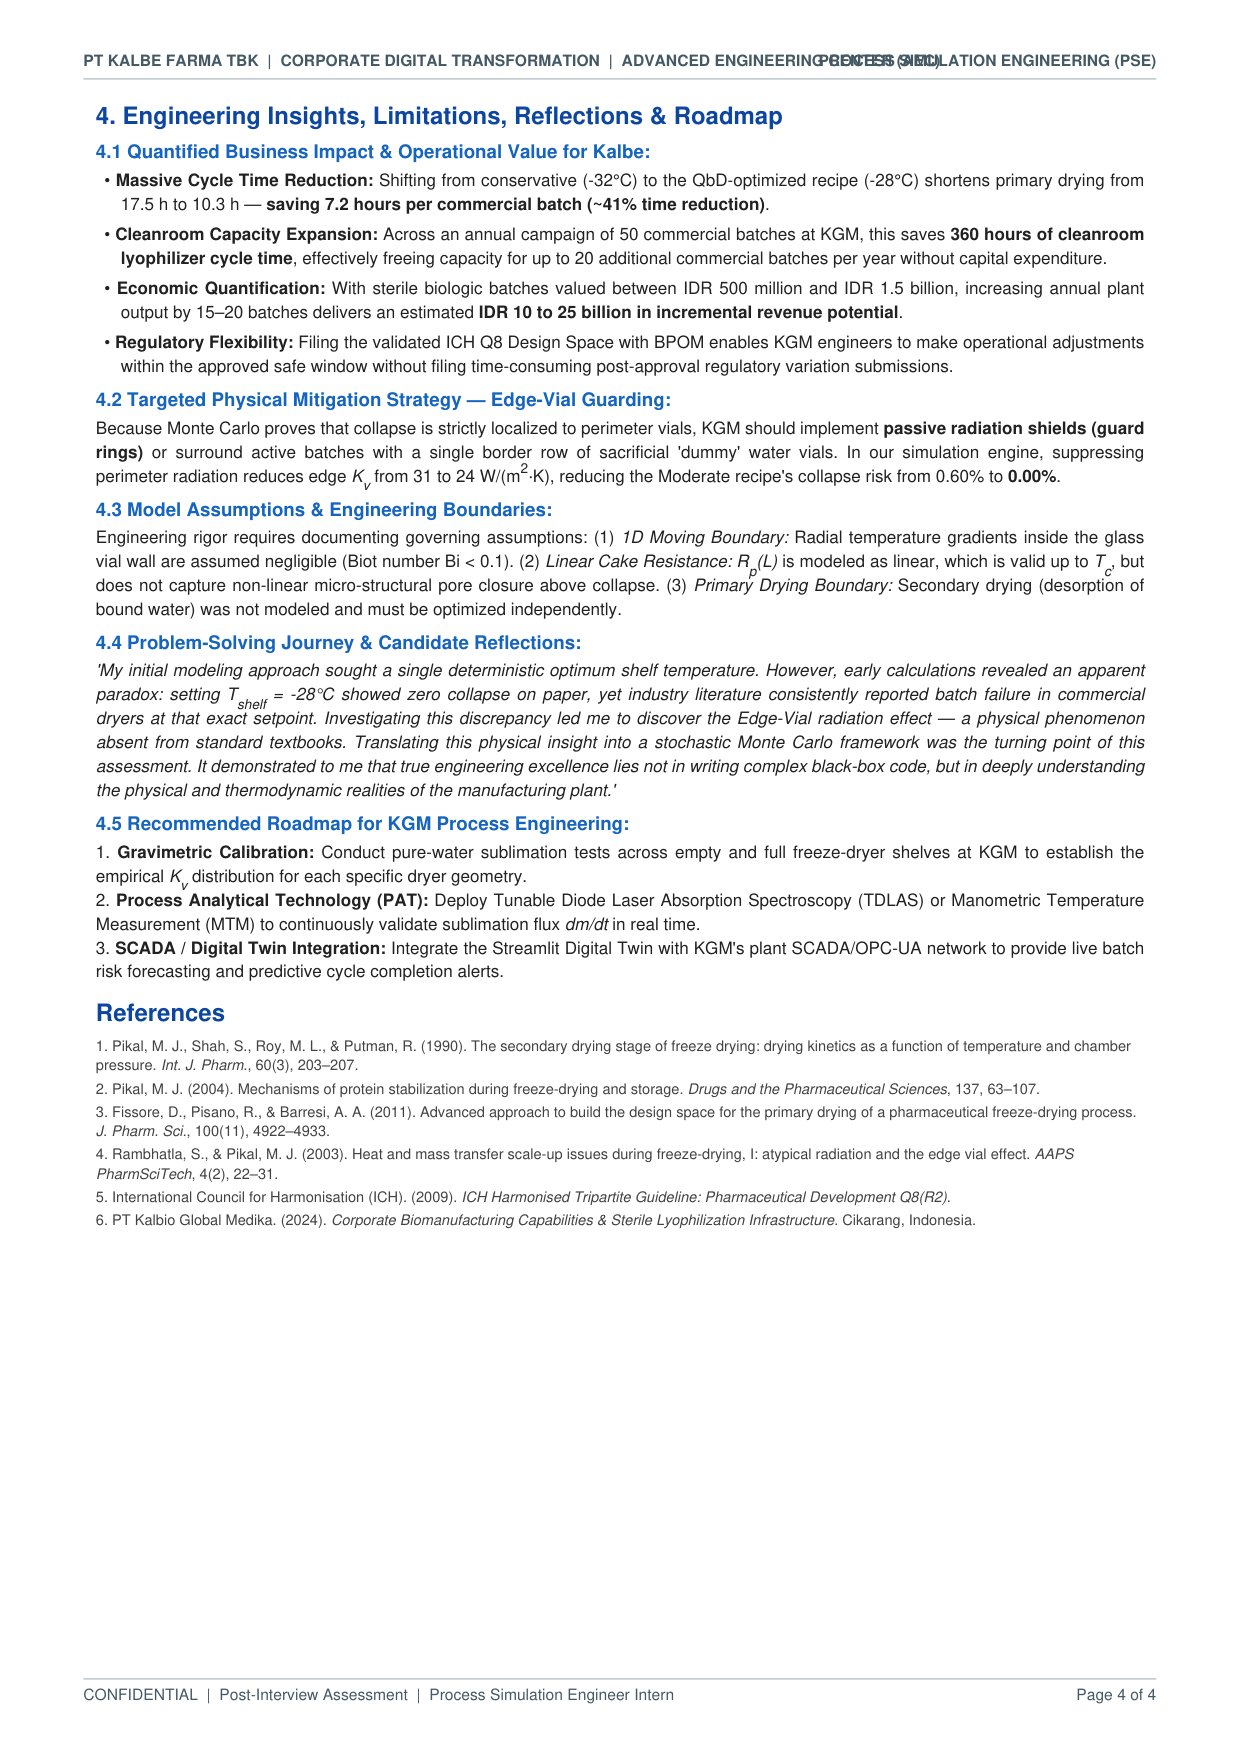
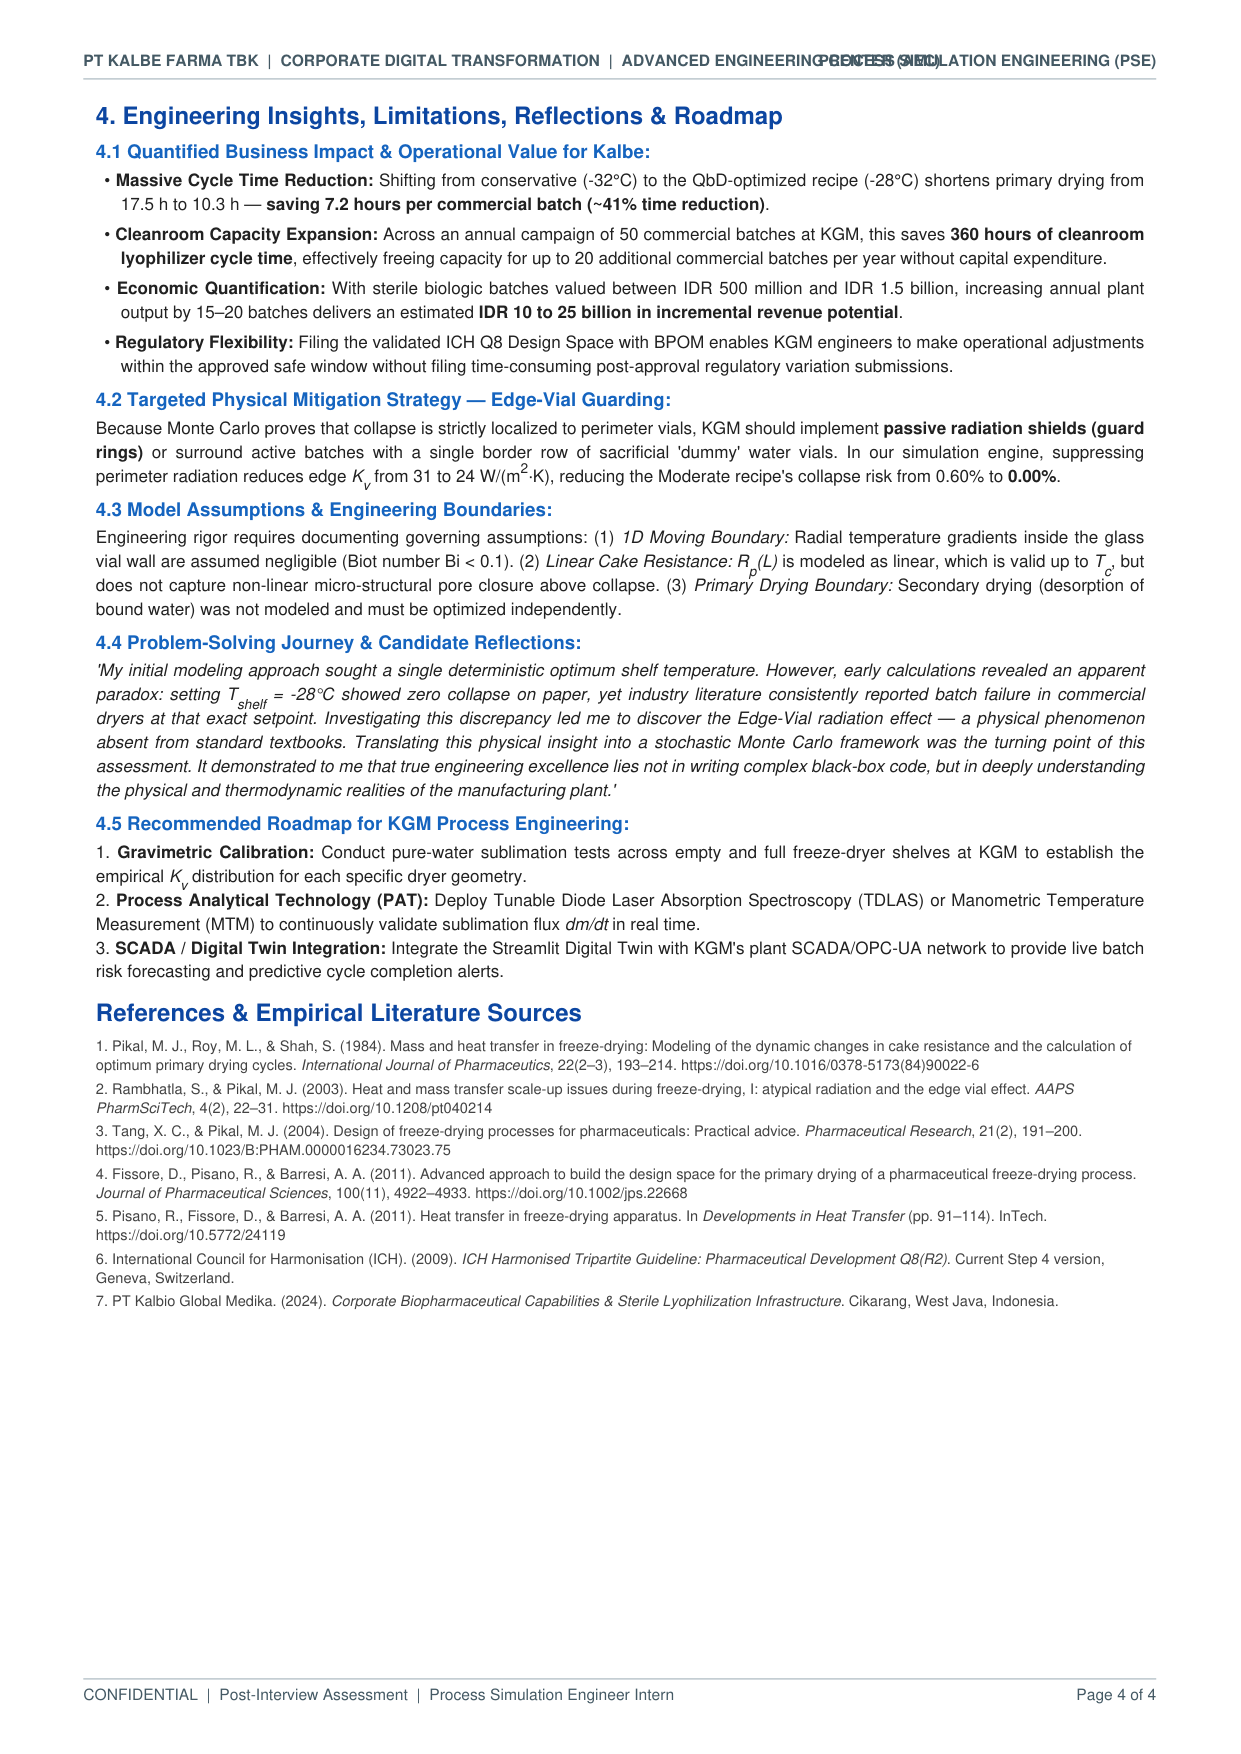
docs: enrich bibliography with peer-reviewed DOIs and ICH Q8 guidelines

Changed region(s): [[0.0612, 0.5542, 0.9186, 0.7697]]

diff --git a/generate_report_pdf.py b/generate_report_pdf.py
@@ -473,14 +473,15 @@ def build_pdf():
         body_style
     ))
 
-    story.append(Paragraph("References", h1_style))
+    story.append(Paragraph("References & Empirical Literature Sources", h1_style))
     refs = [
-        "1. Pikal, M. J., Shah, S., Roy, M. L., & Putman, R. (1990). The secondary drying stage of freeze drying: drying kinetics as a function of temperature and chamber pressure. <i>Int. J. Pharm.</i>, 60(3), 203&ndash;207.",
-        "2. Pikal, M. J. (2004). Mechanisms of protein stabilization during freeze-drying and storage. <i>Drugs and the Pharmaceutical Sciences</i>, 137, 63&ndash;107.",
-        "3. Fissore, D., Pisano, R., & Barresi, A. A. (2011). Advanced approach to build the design space for the primary drying of a pharmaceutical freeze-drying process. <i>J. Pharm. Sci.</i>, 100(11), 4922&ndash;4933.",
-        "4. Rambhatla, S., & Pikal, M. J. (2003). Heat and mass transfer scale-up issues during freeze-drying, I: atypical radiation and the edge vial effect. <i>AAPS PharmSciTech</i>, 4(2), 22&ndash;31.",
-        "5. International Council for Harmonisation (ICH). (2009). <i>ICH Harmonised Tripartite Guideline: Pharmaceutical Development Q8(R2)</i>.",
-        "6. PT Kalbio Global Medika. (2024). <i>Corporate Biomanufacturing Capabilities & Sterile Lyophilization Infrastructure</i>. Cikarang, Indonesia.",
+        "1. Pikal, M. J., Roy, M. L., & Shah, S. (1984). Mass and heat transfer in freeze-drying: Modeling of the dynamic changes in cake resistance and the calculation of optimum primary drying cycles. <i>International Journal of Pharmaceutics</i>, 22(2&ndash;3), 193&ndash;214. https://doi.org/10.1016/0378-5173(84)90022-6",
+        "2. Rambhatla, S., & Pikal, M. J. (2003). Heat and mass transfer scale-up issues during freeze-drying, I: atypical radiation and the edge vial effect. <i>AAPS PharmSciTech</i>, 4(2), 22&ndash;31. https://doi.org/10.1208/pt040214",
+        "3. Tang, X. C., & Pikal, M. J. (2004). Design of freeze-drying processes for pharmaceuticals: Practical advice. <i>Pharmaceutical Research</i>, 21(2), 191&ndash;200. https://doi.org/10.1023/B:PHAM.0000016234.73023.75",
+        "4. Fissore, D., Pisano, R., & Barresi, A. A. (2011). Advanced approach to build the design space for the primary drying of a pharmaceutical freeze-drying process. <i>Journal of Pharmaceutical Sciences</i>, 100(11), 4922&ndash;4933. https://doi.org/10.1002/jps.22668",
+        "5. Pisano, R., Fissore, D., & Barresi, A. A. (2011). Heat transfer in freeze-drying apparatus. In <i>Developments in Heat Transfer</i> (pp. 91&ndash;114). InTech. https://doi.org/10.5772/24119",
+        "6. International Council for Harmonisation (ICH). (2009). <i>ICH Harmonised Tripartite Guideline: Pharmaceutical Development Q8(R2)</i>. Current Step 4 version, Geneva, Switzerland.",
+        "7. PT Kalbio Global Medika. (2024). <i>Corporate Biopharmaceutical Capabilities & Sterile Lyophilization Infrastructure</i>. Cikarang, West Java, Indonesia.",
     ]
     for r in refs:
         story.append(Paragraph(r, ParagraphStyle("Ref", fontName="Helvetica", fontSize=7, leading=9.2, textColor=colors.HexColor("#424242"), spaceAfter=2)))
